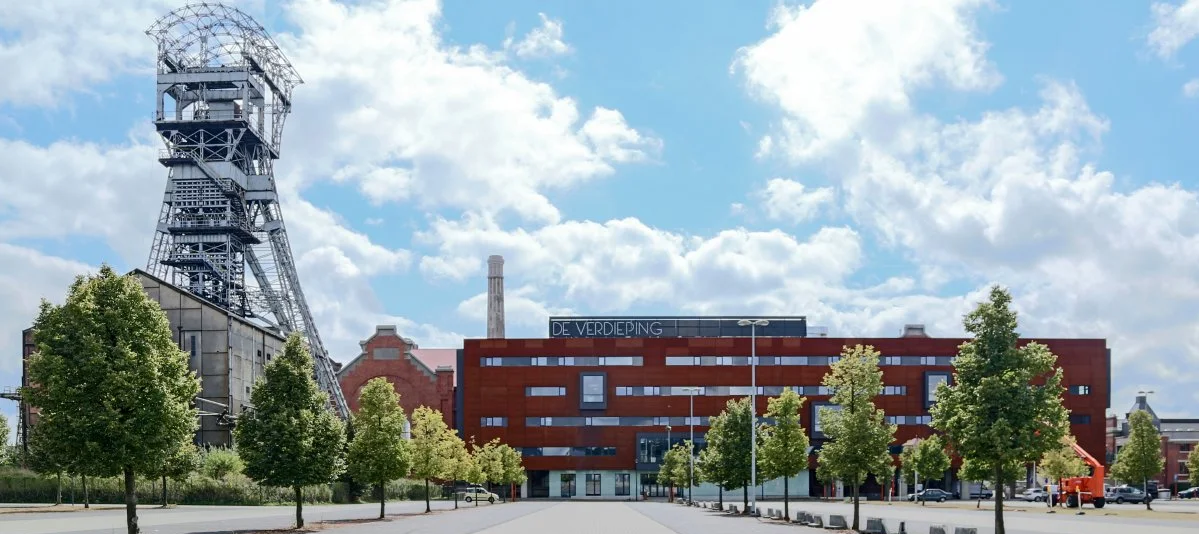
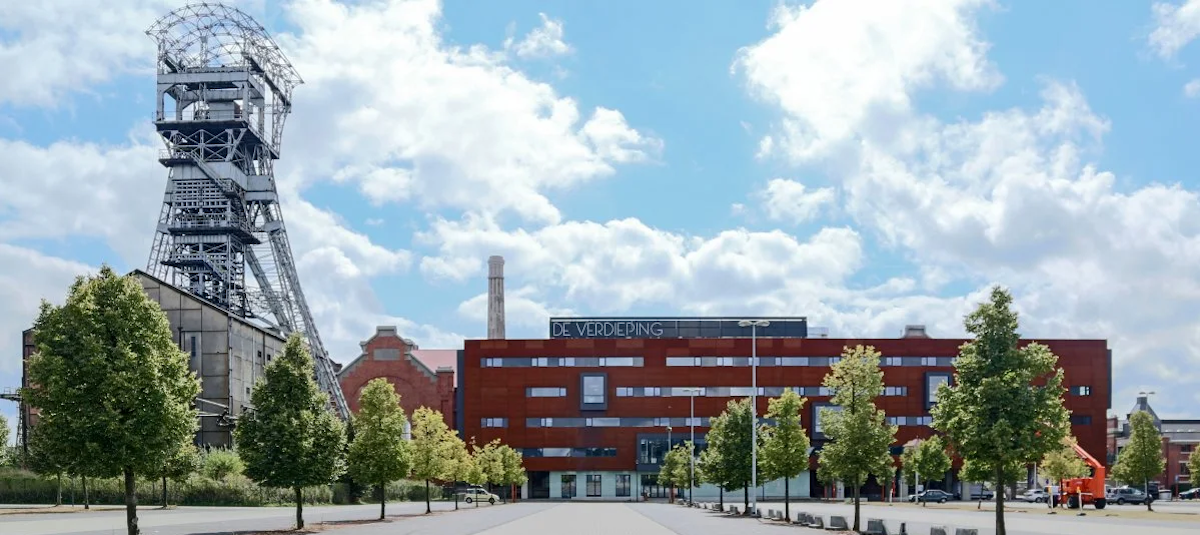
images slider size allemaal gelijk gemaakt

diff --git a/index.html b/index.html
@@ -75,8 +75,12 @@
 
 .content {
 	background-color: white;
-  box-shadow: 0 4px 8px 0 rgba(0, 0, 0, 0.2), 0 6px 20px 0 rgba(0, 0, 0, 0.19);
-  padding: 10px;
+  	box-shadow: 0 4px 8px 0 rgba(0, 0, 0, 0.2), 0 6px 20px 0 rgba(0, 0, 0, 0.19);
+  	padding: 10px;
+}
+
+section {
+	height: 800px;
 }
 
 
@@ -105,9 +109,9 @@
 	<section>
 		<div class="flexslider">
 		  <ul class="slides">
-			<li><img src="img/cvo.png" alt="CVO De Verdieping gebouw"></li>
+			<li><img src="img/cvo.jpeg" alt="CVO De Verdieping gebouw"></li>
 			<li><img src="img/cvo4.jpeg" alt="CVO De Verdieping gebouw"></li>
-			<li><img src="img/danny_bert.jpeg" alt="foto docent jquery"></li>
+			<li><img src="img/danny_bert.jpeg" alt="foto docent jQuery"></li>
 		  </ul>
 		</div>
 	</section> 
@@ -280,8 +284,8 @@
 
     	$(window).on('scroll', function() {
   			var y = $(this).scrollTop();
-  				$('.right-button-wrap').toggleClass('slide-in', y > 1000 && y < 1500)
-  				$('.left-button-wrap').toggleClass('slide-in', y > 1000 && y < 1500)
+  				$('.right-button-wrap').toggleClass('slide-in', y > 1600 && y < 2000)
+  				$('.left-button-wrap').toggleClass('slide-in', y > 1600 && y < 2000)
 			});
 
 
